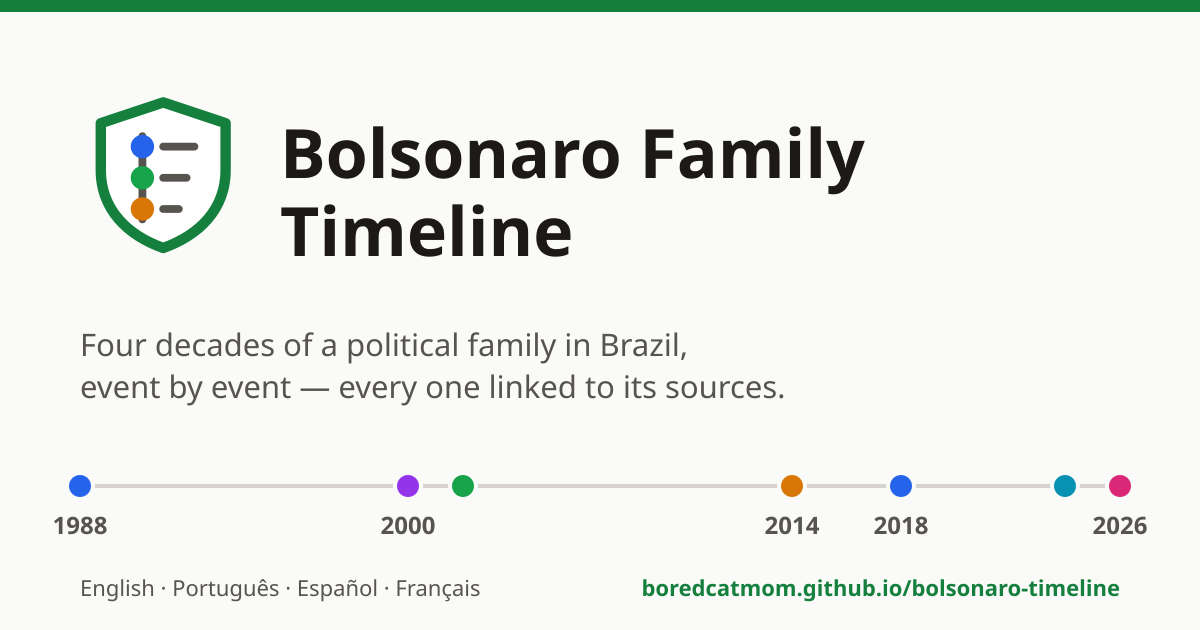
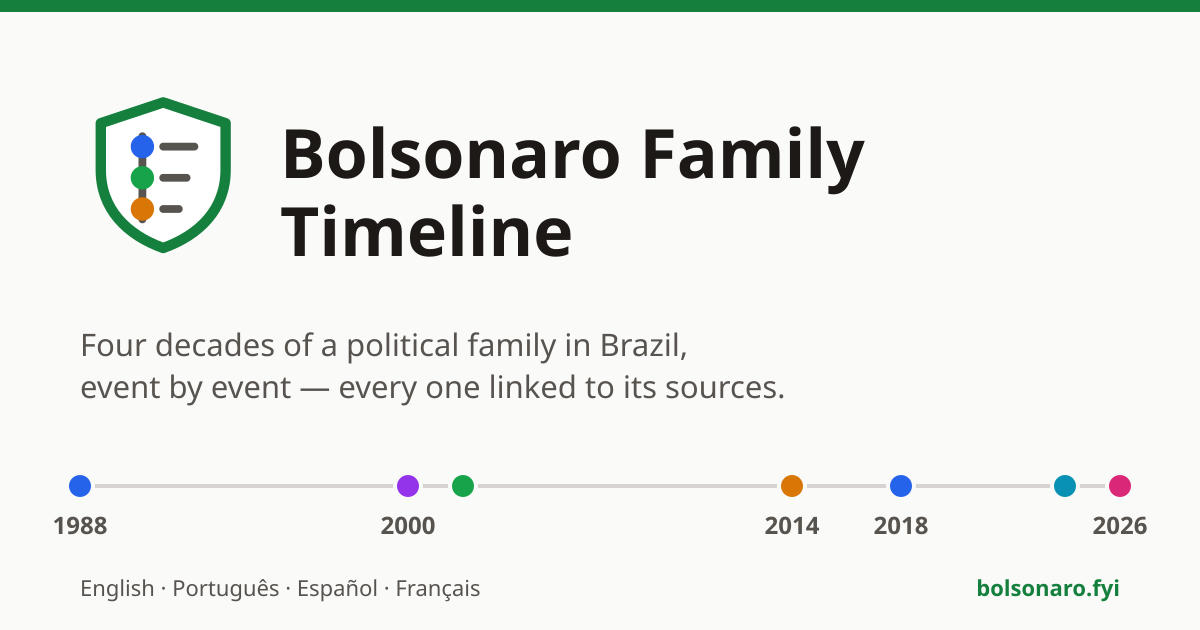
Serve the site at bolsonaro.fyi
- Add CNAME for the custom domain on GitHub Pages
- Point og:url, og:image and twitter:image to https://bolsonaro.fyi/
- Show the new address on the Open Graph image
- Mention the live URL in README and CLAUDE.md

Changed region(s): [[0.5242, 0.9048, 0.925, 0.9651]]

diff --git a/index.html b/index.html
@@ -8,13 +8,13 @@
   <meta property="og:type" content="website">
   <meta property="og:title" content="Bolsonaro Family Timeline">
   <meta property="og:description" content="A sourced, interactive timeline of the Bolsonaro family in Brazilian politics.">
-  <meta property="og:url" content="https://boredcatmom.github.io/bolsonaro-timeline/">
-  <meta property="og:image" content="https://boredcatmom.github.io/bolsonaro-timeline/img/og-image.png">
+  <meta property="og:url" content="https://bolsonaro.fyi/">
+  <meta property="og:image" content="https://bolsonaro.fyi/img/og-image.png">
   <meta property="og:image:width" content="1200">
   <meta property="og:image:height" content="630">
   <meta property="og:image:alt" content="Bolsonaro Family Timeline: four decades of a political family in Brazil, event by event, with sources.">
   <meta name="twitter:card" content="summary_large_image">
-  <meta name="twitter:image" content="https://boredcatmom.github.io/bolsonaro-timeline/img/og-image.png">
+  <meta name="twitter:image" content="https://bolsonaro.fyi/img/og-image.png">
   <link rel="icon" href="img/logo.svg" type="image/svg+xml">
   <link rel="stylesheet" href="css/style.css">
   <script type="module" src="js/app.js"></script>

diff --git a/CLAUDE.md b/CLAUDE.md
@@ -1,6 +1,6 @@
 # CLAUDE.md
 
-Static, multilingual timeline of the Bolsonaro family in Brazilian politics. Plain HTML/CSS/JS (ES modules), no framework, no build step. Deployed with GitHub Pages from `main` (root).
+Static, multilingual timeline of the Bolsonaro family in Brazilian politics. Plain HTML/CSS/JS (ES modules), no framework, no build step. Deployed with GitHub Pages from `main` (root) at https://bolsonaro.fyi (see `CNAME`).
 
 ## Commands
 

diff --git a/README.md b/README.md
@@ -41,7 +41,7 @@ Untranslated events fall back to English, so a language can be added incremental
 
 ## Deploy
 
-Any static host works. For GitHub Pages: Settings → Pages → deploy from the `main` branch, root folder.
+Live at <https://bolsonaro.fyi>. It is served by GitHub Pages from the `main` branch (root folder); the custom domain is set in the `CNAME` file. Any other static host works too.
 
 ## License
 
